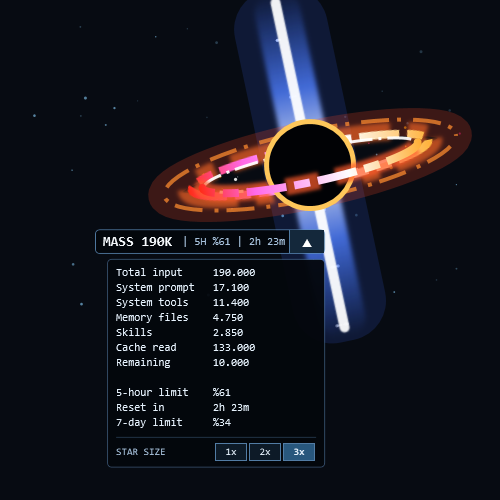
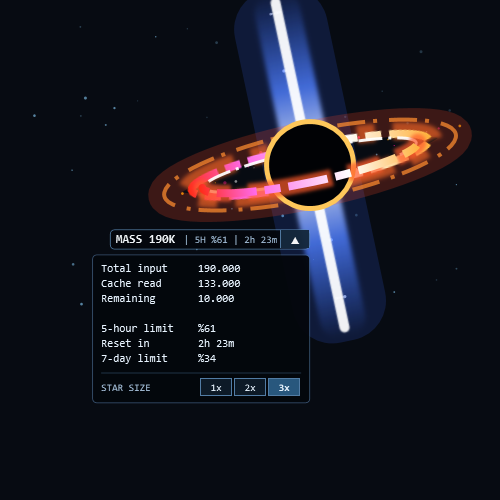
refactor: simplify token details overlay

Changed region(s): [[0.18, 0.21, 0.93, 0.93]]

diff --git a/README.md b/README.md
@@ -48,16 +48,11 @@ powershell.exe -NoProfile -ExecutionPolicy Bypass -File .\.claude-token-star\ins
 - Drag the star itself to move it, including close to IDE corners and edges.
 - `MASS 85K` means about 85,000 context tokens.
 - `5H %61 | 2h 23m` shows five-hour usage and time until reset.
-- Click the arrow for total input, system prompt, system tools, memory files,
-  skills, cache read, remaining context, five-hour limit, reset time, and
-  seven-day limit.
+- Click the arrow for total input, cache read, remaining context, five-hour
+  limit, reset time, and seven-day limit.
 - Use `1x`, `2x`, or `3x` at the bottom of the menu to resize the star. `1x` is
   one-third of the original size; `3x` is the original size.
 - The star hides when you switch to another project.
-
-Claude Code's current [status-line data](https://code.claude.com/docs/en/statusline)
-does not expose separate system prompt, system tools, memory files, or skills
-token counts. Those rows show `--` unless Claude adds them to the payload.
 
 <img src="assets/overlay-token-details.png" width="500" alt="Token details and star size menu">
 
